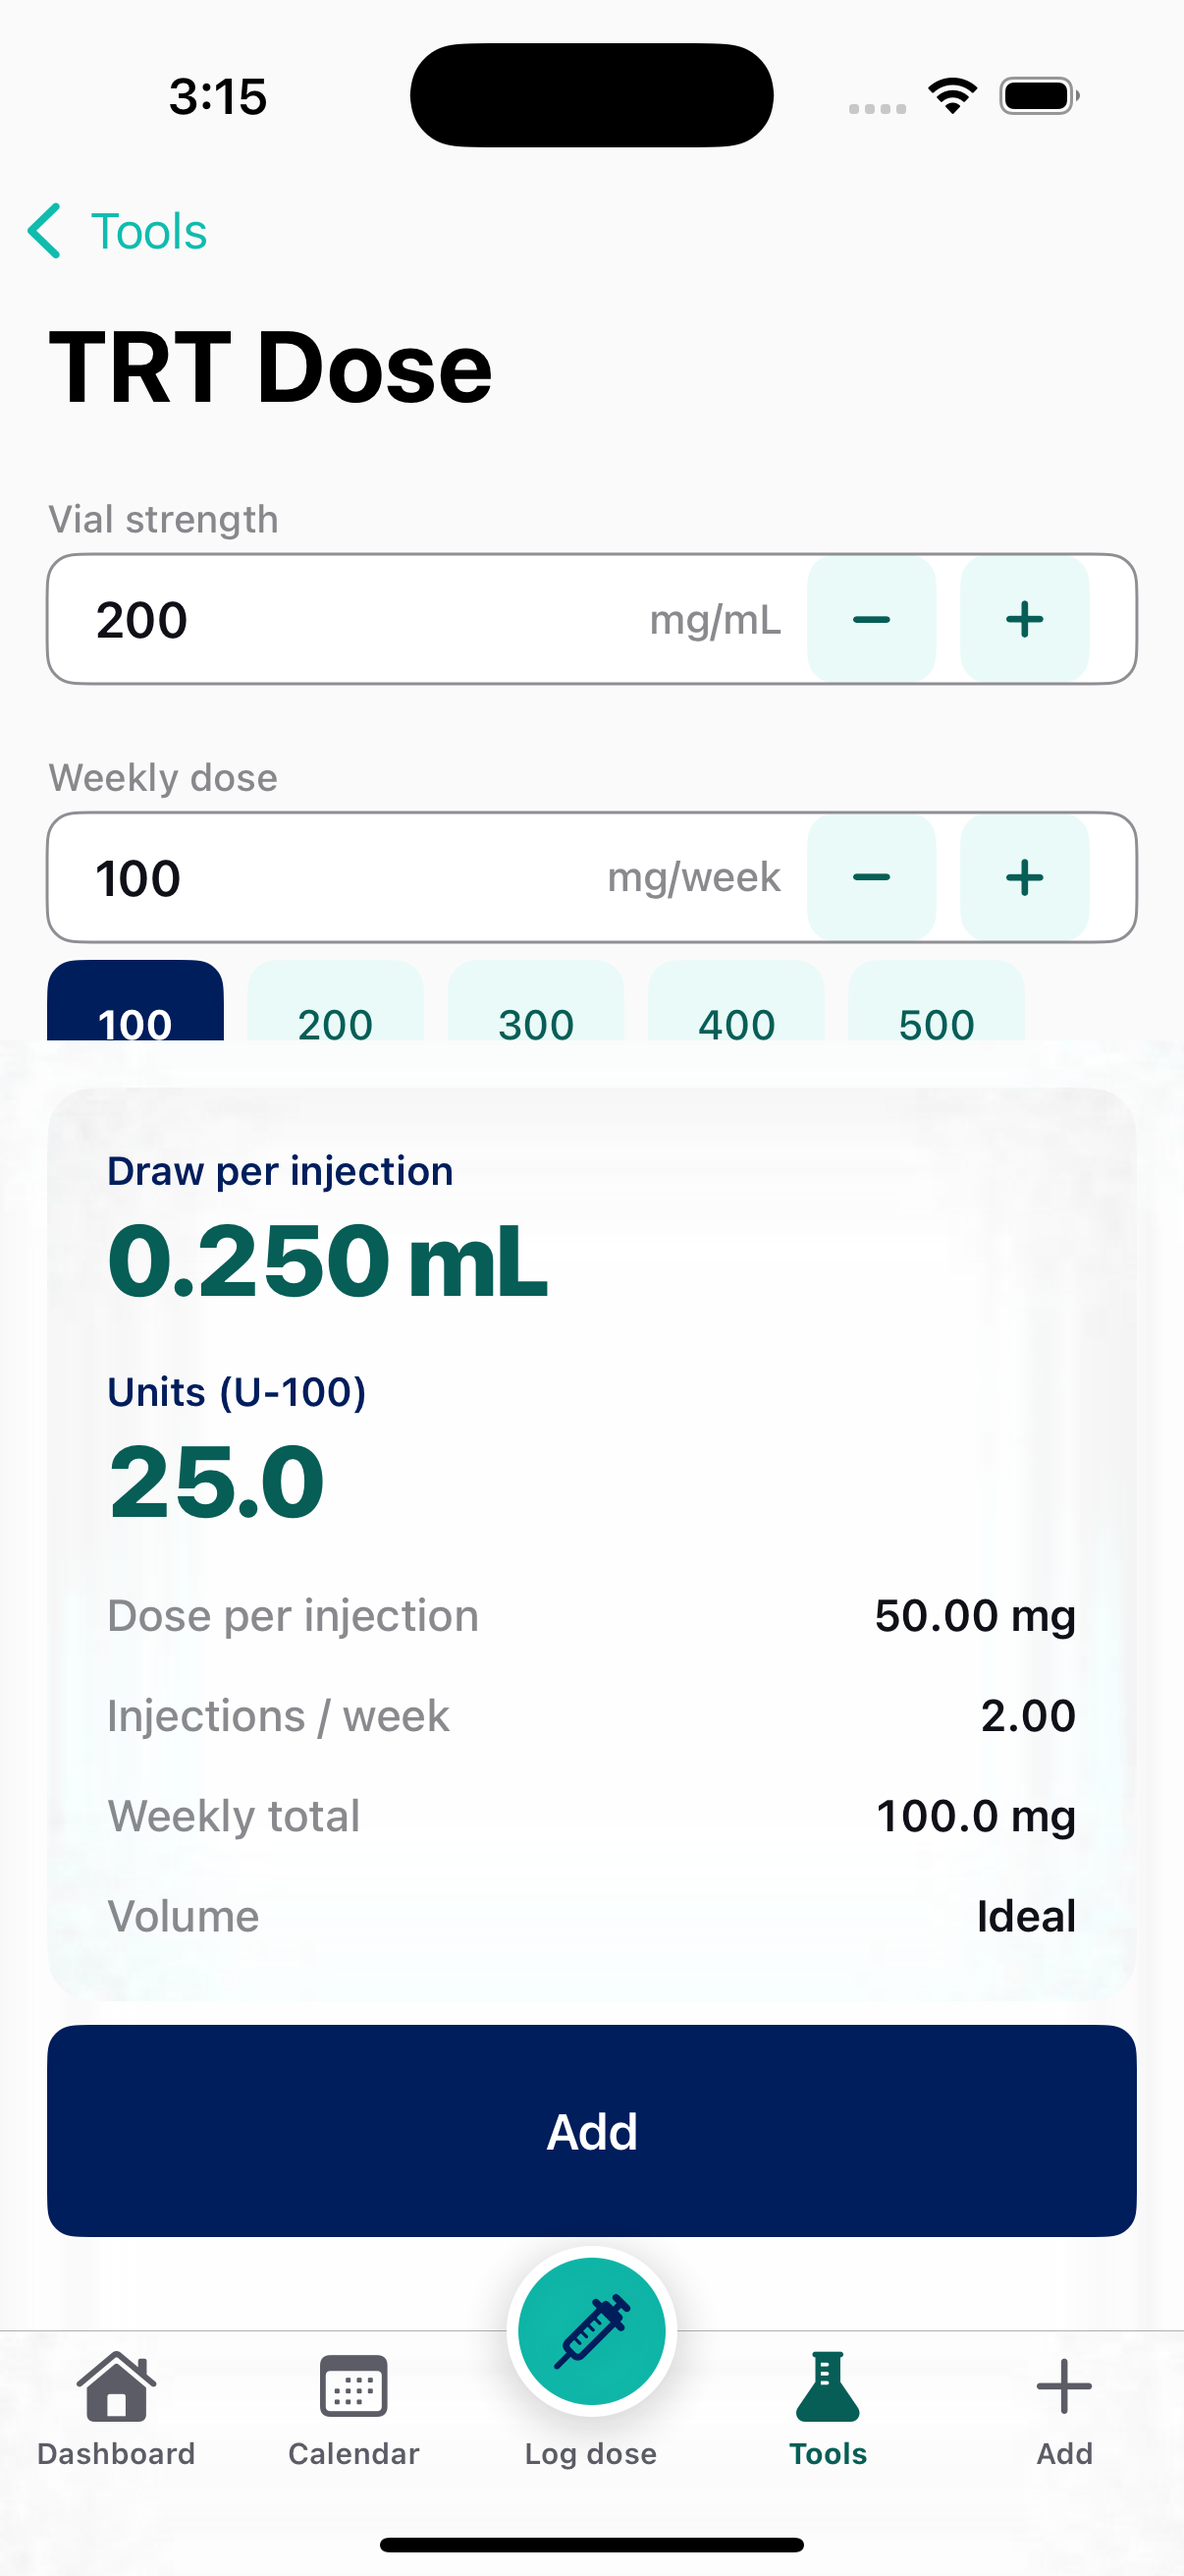
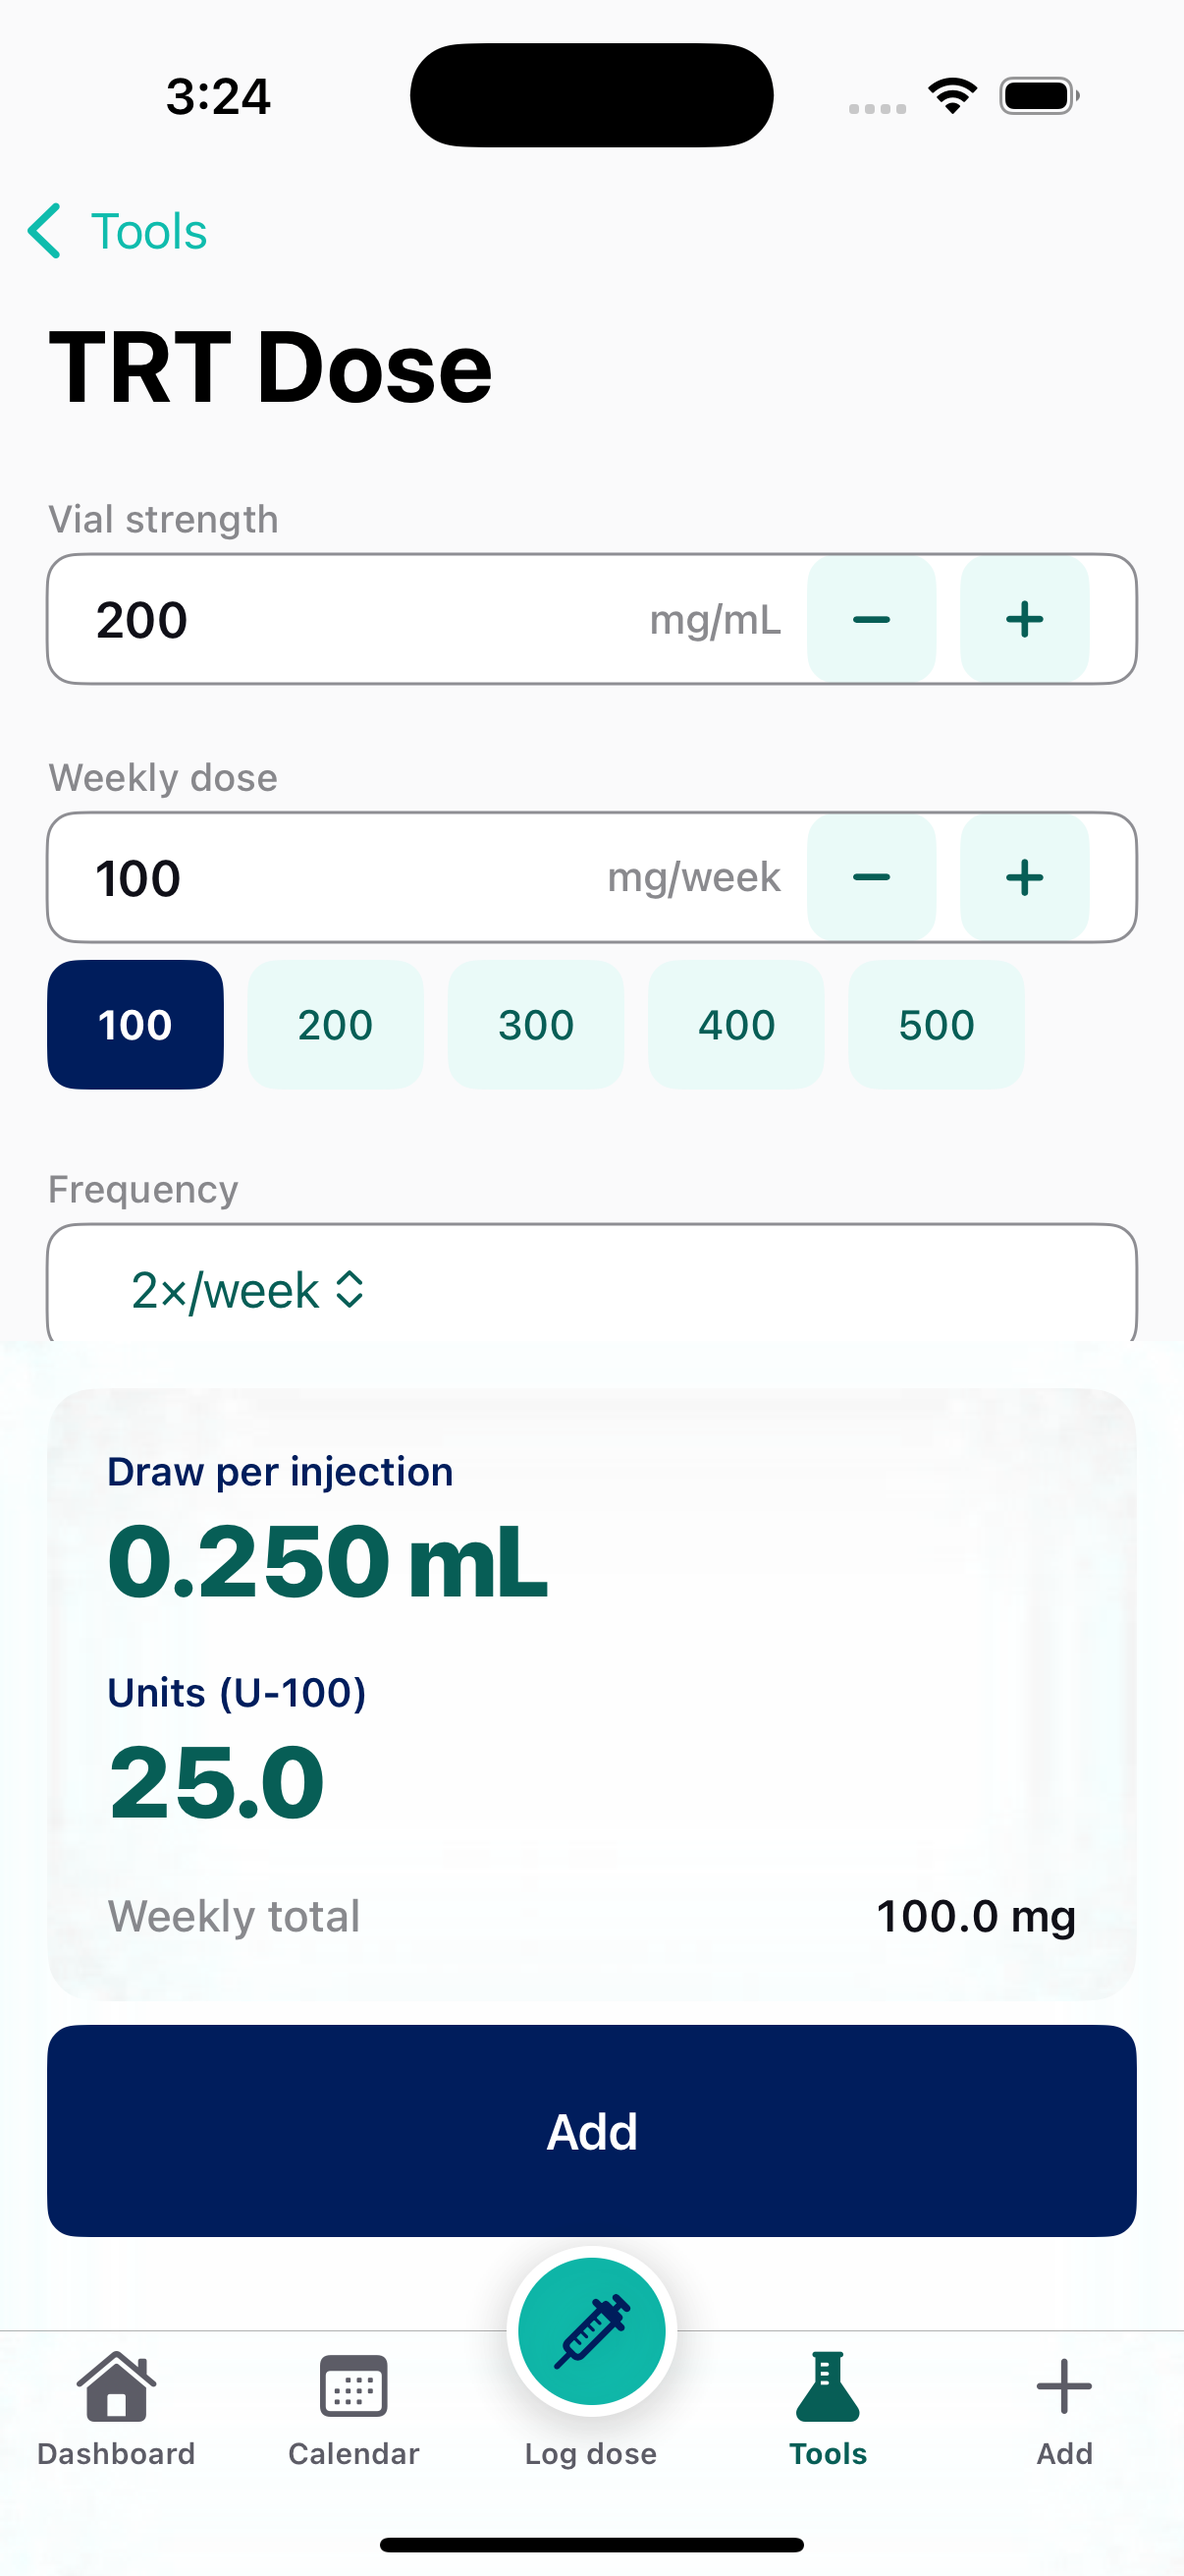
fix: split the result bar so the quick row clears it — 27.3pt -> 44.0pt at rest
Build green, 27/27.

The pinned bar now keeps the primary values plus the WEEKLY TOTAL, and moves dose
per injection, injections/week and the volume verdict into the scroll copy. The
total stays because it is the cross-check: the user typed 400 mg/week and that row
is how they confirm the app understood them. The other three restate the inputs, and
the verdict already has a louder channel — the over-capacity warning fires with icon
and text when it matters. Nothing is lost, only relocated, and default now behaves
like AX5 rather than inventing a third mode.

Result, measured at rest: the selected quick pill goes 27.3pt -> 44.0pt. No spacing
nudge was needed, so the window really was the problem rather than the padding.

ResultCard gains an explicit isPinned flag. The row filter alone would have applied
to the scroll copy too, and the volume verdict comes from scheduleLine rather than
the row list so it needed gating separately — it was still pinned after the first
pass.

BOARD §5 gains the rule this instance earned: closing a finding protects the code
that existed when you closed it. The quick row arrived after F11 was closed and
landed straight under the same pinned bar — a new surface under an old bug, not a
regression. Also flags 2026-08-01-current/ at the top as the current-state set so
the per-cycle folders aren't read as now.

Claude-Session: https://claude.ai/code/session_01DzCP5cJTPrVZYVEJvLT1NL

diff --git a/Sources/InjectBuddy/Features/Calculators/CalculatorScreen.swift b/Sources/InjectBuddy/Features/Calculators/CalculatorScreen.swift
@@ -52,7 +52,7 @@ struct CalculatorScreen: View {
                 // of the screen and hid the field being edited. Above AX1 the bar
                 // collapses to the primary row + CTA and the full breakdown is
                 // rendered here instead, inside the scroll, so no row is lost.
-                if isAccessibilitySize, vm.result.isValid {
+                if vm.result.isValid {
                     ResultCard(result: vm.result, barrelMl: barrelMl)
                 }
 
@@ -99,6 +99,7 @@ struct CalculatorScreen: View {
             // the field being edited in half (audit finding F11).
             ResultCard(result: vm.result,
                        isCompact: keyboard.isVisible || isAccessibilitySize,
+                       isPinned: true,
                        barrelMl: barrelMl)
 
             // Titled "Add" to match the web, where the bottom nav's Add slot owns
@@ -161,11 +162,23 @@ struct CalculatorScreen: View {
 private struct ResultCard: View {
     let result: CalculatorResult
     var isCompact: Bool = false
+    /// True for the bar pinned above the CTA, false for the full card in the scroll.
+    /// The pinned instance shows the primary values plus the weekly-total
+    /// cross-check; everything else lives in the scroll copy.
+    var isPinned: Bool = false
     var barrelMl: Double?
 
     /// You cannot draw 1.2 mL into a 1 mL barrel. Surfaced as an icon PLUS text —
     /// WCAG 1.4.1: no state in this app is ever carried by colour alone, and least
     /// of all one that says the dose does not physically fit the syringe.
+    /// Rows the pinned bar keeps: every emphasised value, plus the weekly total.
+    private var visibleRows: [ResultRow] {
+        guard isPinned else { return result.rows }
+        return result.rows.filter {
+            $0.emphasis || $0.label.lowercased().contains("weekly total")
+        }
+    }
+
     private var overCapacity: Bool {
         guard let barrelMl, let draw = result.drawMl, result.isValid else { return false }
         // Tolerate float noise; a draw exactly equal to the barrel still fits.
@@ -204,7 +217,19 @@ private struct ResultCard: View {
                     if let note = capacityNote { CapacityWarning(text: note) }
                 }
             } else if result.isValid {
-                ForEach(result.rows) { row in
+                // PINNED: the primary values plus the weekly total. The total is the
+                // CROSS-CHECK, not a derived nicety — the user typed "400 mg/week"
+                // and this is how they confirm the app understood them. Hiding the
+                // figure that closes that loop to save vertical space is the wrong
+                // trade in a dosing app.
+                //
+                // The rest — dose per injection, injections/week, volume verdict —
+                // moves into the scroll. They restate the inputs, and the verdict
+                // already has a louder channel: the over-capacity warning fires with
+                // icon and text when it actually matters. Nothing is lost, only
+                // relocated, and default now behaves like AX5 rather than inventing
+                // a third mode.
+                ForEach(visibleRows) { row in
                     if row.emphasis {
                         PrimaryResultRow(label: row.label, value: row.value)
                     } else {
@@ -214,7 +239,10 @@ private struct ResultCard: View {
                 // Was an orphaned grey string with no label — at AX sizes it read
                 // as a stray word ("Ideal") floating under the numbers. It is a
                 // verdict on the draw volume, so it gets a label like every other row.
-                if let line = result.scheduleLine {
+                // The volume verdict lives in the scroll copy only. It already has
+                // a louder channel when it matters — the over-capacity warning fires
+                // with icon and text — so its quiet "Ideal" earns no pinned space.
+                if let line = result.scheduleLine, !isPinned {
                     SecondaryResultRow(label: "Volume", value: line)
                 }
                 if let note = capacityNote {

diff --git a/docs/ui-audit/BOARD.md b/docs/ui-audit/BOARD.md
@@ -8,6 +8,9 @@ Do not tick anything on inspection — every closed item below was closed by a
 measurement or a screenshot, and that bar holds. If something can't be verified,
 move it to §4 rather than ticking it.
 
+**Current state is `docs/ui-audit/2026-08-01-current/`.** The per-cycle folders are
+the audit trail, not the app as it stands — don't open `cycle3` and read it as now.
+
 Session of 2026-08-01. Branch `feature/tabview-shell`. Latest `edf59d2`.
 
 ---
@@ -221,15 +224,20 @@ Parity and chrome
    Anything pinned needs clearance where it is pinned.
 5. **A montage is a survey instrument, not a measuring one.** A 12.7pt overlap
    read as "grazing" off a downscaled 4272px image.
-6. **The screens nobody complains about are where defects accumulate**, because
+6. **Closing a finding protects the code that existed when you closed it.** New
+   controls land underneath old bugs. The quick-value row arrived after F11 was
+   closed and immediately sat under the pinned result bar — not a regression of the
+   fix, a new surface arriving under an old problem. Anything added below the fold
+   on the calculator gets checked against the pinned bar as a matter of course.
+7. **The screens nobody complains about are where defects accumulate**, because
    attention follows complaints rather than risk. The log-dose sheet was a stock
    `.insetGrouped` list at audit time and got the least work of any screen. It then
    turned out to hold a touch-target violation, the app's worst contrast failure
    (2.13:1), no type scale at all, and a latent copy of the truncation bug — four
    for four, on the screen nobody was looking at.
-7. **A component verified in one container is not verified.** `PrimaryButton` was
+8. **A component verified in one container is not verified.** `PrimaryButton` was
    measured on the calculator, scaled correctly, and was trusted. The same component
    in a `List` row did not scale at all.
-8. **If taps die but `simctl` still screenshots, check the login session** before
+9. **If taps die but `simctl` still screenshots, check the login session** before
    touching the Simulator — CoreSimulator is a daemon with no display dependency,
    so the symptom points the wrong way.
